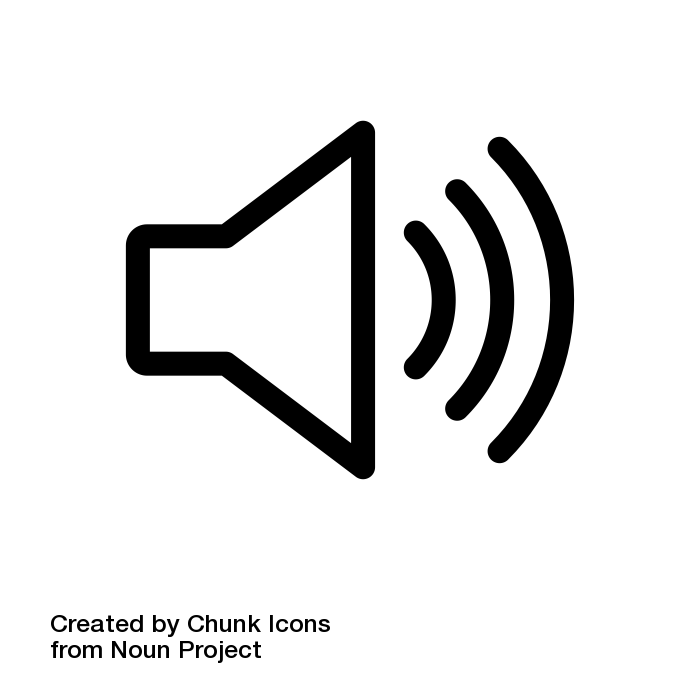
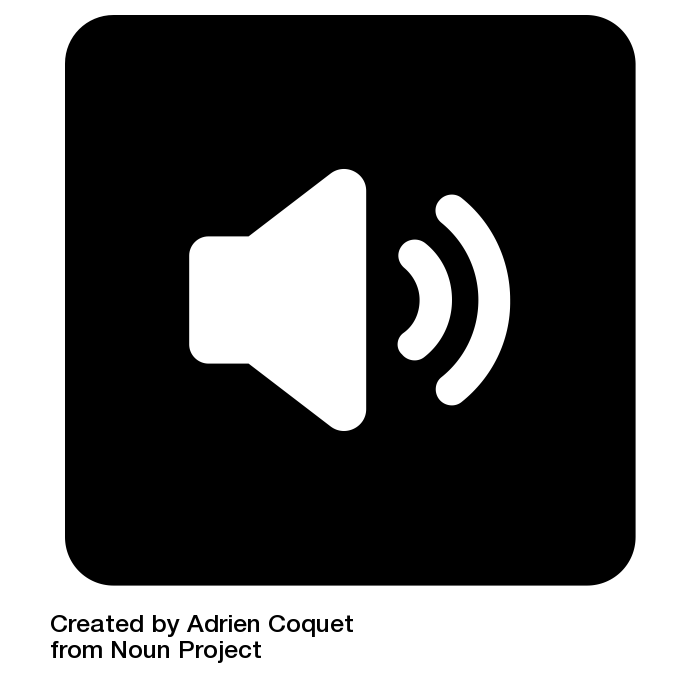
images

diff --git a/src/ControlPanel.js b/src/ControlPanel.js
@@ -75,27 +75,51 @@ export default class ControlPanel extends React.Component {
         {
           this.getVolumeControl()
         }
-        <button onClick={this.props.prevAlbum}
-          disabled={!this.props.playlist.hasPrevAlbum()}
-          className="control-button">|&lt;</button>
-        <button
-          onClick={this.props.prevTrack}
-          disabled={!this.props.playlist.hasPrevTrack()}
-          className="control-button">&lt;</button>
-        <button
-          disabled={!this.props.playlist.getCurrentTrack()}
-          onClick={this.props.playPause}
-          className="control-button">
-          {this.props.playing ? 'Pause' : 'Play'}
-        </button>
-        <button
-          disabled={!this.props.playlist.hasNextTrack()}
-          onClick={this.props.nextTrack}
-          className="control-button">&gt;</button>
-        <button
-          disabled={!this.props.playlist.hasNextAlbum()}
-          onClick={this.props.nextAlbum}
-          className="control-button">&gt;|</button>
+        <input
+            style={{width: "25px"}}
+            type="image"
+            alt="volume"
+            src={getImgSrc(Resources.PREVIOUS_ALBUM)}
+            onClick={this.props.prevAlbum}
+            disabled={!this.props.playlist.hasPrevAlbum()}
+            className="control-button"
+        />
+        <input
+            style={{width: "25px"}}
+            type="image"
+            alt="volume"
+            src={getImgSrc(Resources.PREVIOUS_TRACK)}
+            onClick={this.props.prevTrack}
+            disabled={!this.props.playlist.hasPrevTrack()}
+            className="control-button"
+        />
+        <input
+            style={{width: "25px"}}
+            type="image"
+            alt="volume"
+            src={getImgSrc(this.props.playing ? Resources.PAUSE : Resources.PLAY)}
+            onClick={this.props.playPause}
+            disabled={!this.props.playlist.getCurrentTrack()}
+            className="control-button"
+        />
+        <input
+            style={{width: "25px"}}
+            type="image"
+            alt="volume"
+            src={getImgSrc(Resources.NEXT_TRACK)}
+            onClick={this.props.nextTrack}
+            disabled={!this.props.playlist.hasNextTrack()}
+            className="control-button"
+        />
+        <input
+            style={{width: "25px"}}
+            type="image"
+            alt="volume"
+            src={getImgSrc(Resources.NEXT_ALBUM)}
+            onClick={this.props.nextAlbum}
+            disabled={!this.props.playlist.hasNextAlbum()}
+            className="control-button"
+        />
       </div>
     );
   }

diff --git a/src/constants.js b/src/constants.js
@@ -1,8 +1,17 @@
 const RESOURCES_DIR = './resources/';
 
+// images should come from:
+// https://thenounproject.com/coquet_adrien/collection/music-media-player-control-play-multimedia-record/
+// if possible
 export const Resources = {
   DEFAULT_ALBUM: RESOURCES_DIR + 'missing_album.png',
   DEFAULT_ARTIST: RESOURCES_DIR + 'missing_artist.png',
   VOLUME: RESOURCES_DIR + 'volume.png',
+  PREVIOUS_ALBUM: RESOURCES_DIR + 'previous_album.png',
+  PREVIOUS_TRACK: RESOURCES_DIR + 'previous_track.png',
+  PLAY: RESOURCES_DIR + 'play.png',
+  PAUSE: RESOURCES_DIR + 'pause.png',
+  NEXT_TRACK: RESOURCES_DIR + 'next_track.png',
+  NEXT_ALBUM: RESOURCES_DIR + 'next_album.png',
 };
 

diff --git a/src/Header.js b/src/Header.js
@@ -6,7 +6,7 @@ import React from 'react';
 export default class Header extends React.Component {
   render() {
     return (
-      <div id="header">
+      <div id="header" style={{padding: "2px"}}>
         <ControlPanel
           playing={this.props.playing}
           playPause={this.props.playPause}

diff --git a/src/App.css b/src/App.css
@@ -74,3 +74,7 @@
   color: blue;
   cursor: pointer;
 }
+
+input[type=image]:disabled{
+  opacity:0.5;
+}
